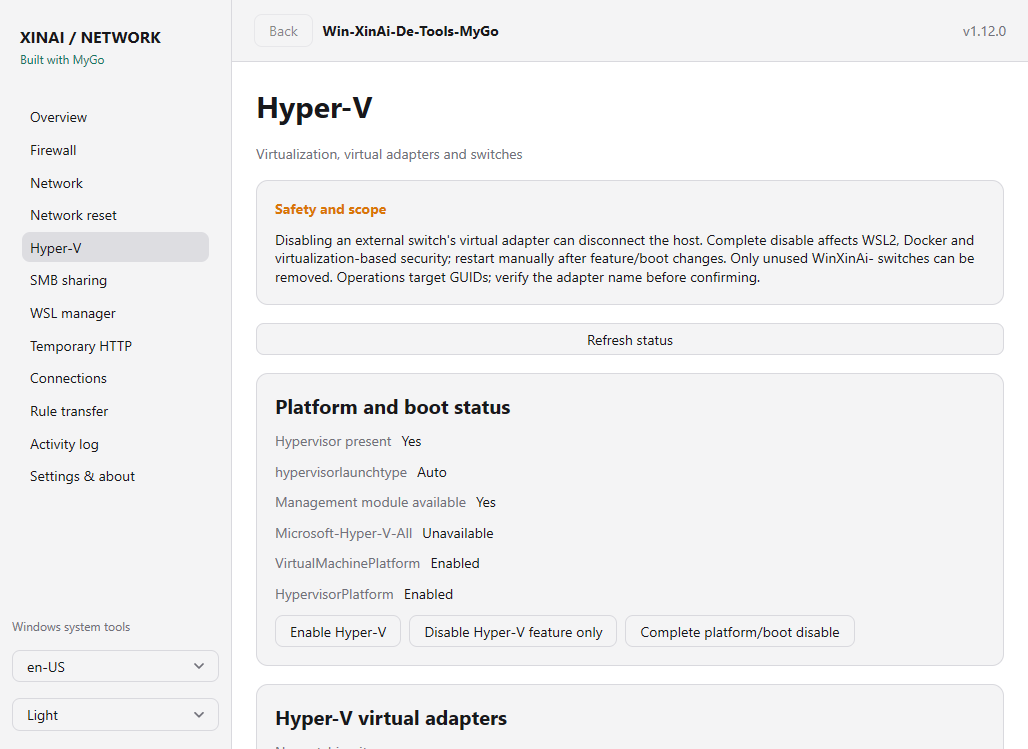
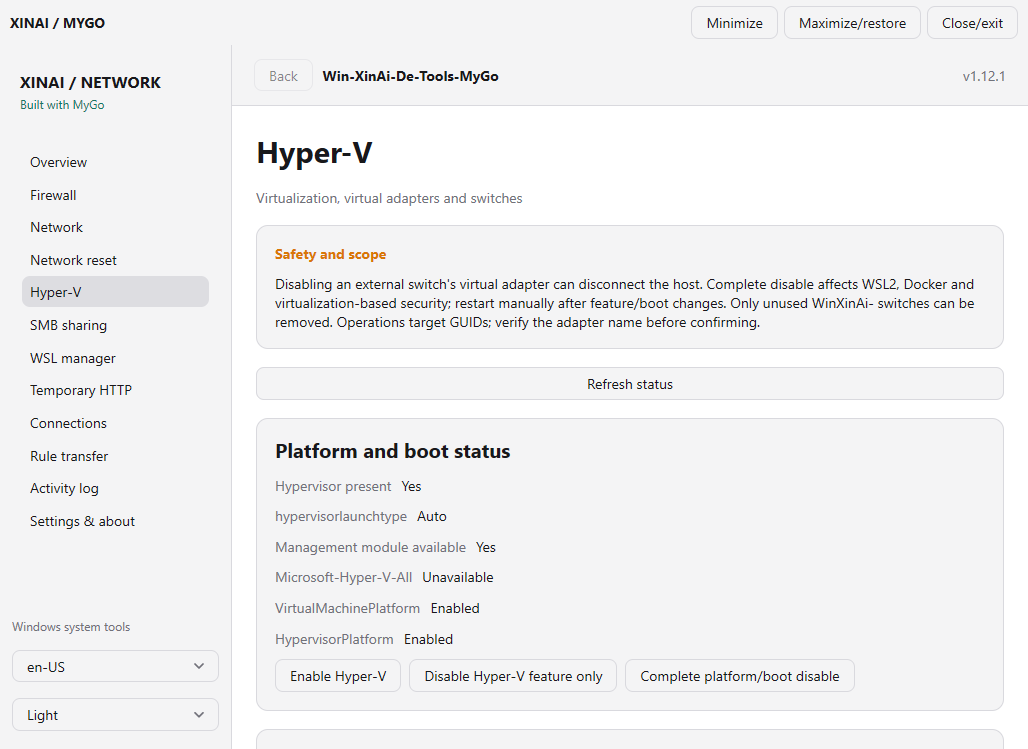
Record passed x64 and ARM64 validation and refresh native screenshots

diff --git a/README.md b/README.md
@@ -29,6 +29,12 @@ The installer offers **desktop** and **Start Menu** shortcuts as independent opt
 
 Install identities, shortcuts and UI preferences are independent. Inspired by [Pulse](https://pulse.egoist.dev/), MyGo uses native Go controls, not a WebView. It includes a self-contained .NET system engine: no tiny standalone-binary claim. Dedicated feature pages automatically load real state and show searchable rule/connection lists, populated adapter settings, Hyper-V/SMB/WSL controls and individual HTTP URL actions. Advanced WSL tools have grouped forms; application login startup is not offered. **Both editions manage the same Windows configuration; avoid conflicting simultaneous changes.** See the [MyGo guide and differences](docs/MYGO.md).
 
+## v1.12.1 Fixes
+
+- Fix optional post-install launch error 740 without removing administrator requirements or shortcut choices.
+- Fit MyGo's initial window inside the screen work area and add visible Minimize, Maximize/restore and Close/exit controls.
+- Preserve Chinese adapter names/aliases, SMB paths and WSL launcher diagnostics with explicit per-process encoding.
+
 ## Features
 
 - **Local network reset**: DNS cache, selected-adapter DHCP/automatic DNS, or system Winsock/TCP/IP. Snapshot first, Cancel by default, no automatic reboot; see [reset and recovery](docs/NETWORK-RESET.md).
@@ -43,11 +49,11 @@ System configuration changes require administrator privileges. Enable the legacy
 
 ## Interface
 
-Actual Windows x64 screenshots from the [v1.12.0 release UI verification](https://github.com/logdns/Win-XinAi-De-Tools/actions/runs/39005734844). System status and available controls depend on the host configuration. MyGo now shows dedicated feature pages, not an operation-selector/JSON console. The adapter settings screenshot is an unsubmitted Static draft populated from a DHCP adapter; no network configuration was changed.
+Actual Windows x64 screenshots from the [v1.12.1 candidate UI verification](https://github.com/logdns/Win-XinAi-De-Tools/actions/runs/39012141927). System status and available controls depend on the host configuration. MyGo now shows dedicated feature pages, not an operation-selector/JSON console. The adapter settings screenshot is an unsubmitted Static draft populated from a DHCP adapter; no network configuration was changed.
 
 ### Dashboard
 
-![v1.12.0 dashboard with Hyper-V navigation](docs/screenshots/dashboard.png)
+![v1.12.1 dashboard with Hyper-V navigation](docs/screenshots/dashboard.png)
 
 ### Hyper-V features and boot configuration
 
@@ -59,40 +65,46 @@ Actual Windows x64 screenshots from the [v1.12.0 release UI verification](https:
 
 ### Local HTTP discovery
 
-![v1.12.0 local HTTP service discovery](docs/screenshots/temporary-http-discovery.png)
+![v1.12.1 local HTTP service discovery](docs/screenshots/temporary-http-discovery.png)
 
 ### Local network reset (WinUI)
 
-![v1.12.0 DNS, adapter and Winsock/TCP/IP reset with dark safety notice](docs/screenshots/network-reset.png)
+![v1.12.1 DNS, adapter and Winsock/TCP/IP reset with dark safety notice](docs/screenshots/network-reset.png)
 
 ### Built with MyGo: native overview
 
-![v1.12.0 MyGo native dashboard](docs/screenshots/mygo-dashboard.png)
+![v1.12.1 MyGo native dashboard](docs/screenshots/mygo-dashboard.png)
+
+### Built with MyGo: compact window and visible controls
+
+The initial window fits the display work area. Minimize, Maximize/restore and Close/exit remain visible in the native toolbar; system title-bar controls stay enabled. This is an actual compact native content capture (464 × 601 pixels), not a full-desktop screenshot.
+
+![v1.12.1 MyGo compact layout with visible window controls](docs/screenshots/mygo-compact.png)
 
 ### Built with MyGo: rules and direct actions
 
-![v1.12.0 MyGo searchable rule list with edit and delete buttons](docs/screenshots/mygo-firewall.png)
+![v1.12.1 MyGo searchable rule list with edit and delete buttons](docs/screenshots/mygo-firewall.png)
 
 ### Built with MyGo: populated IP/DNS settings
 
-![v1.12.0 MyGo selected-adapter settings, unsubmitted Static draft](docs/screenshots/mygo-network-settings.png)
+![v1.12.1 MyGo selected-adapter settings, unsubmitted Static draft](docs/screenshots/mygo-network-settings.png)
 
 ### Built with MyGo: Hyper-V platform and networking
 
-![v1.12.0 MyGo Hyper-V feature and boot state with dedicated controls](docs/screenshots/mygo-hyperv.png)
+![v1.12.1 MyGo Hyper-V feature and boot state with dedicated controls](docs/screenshots/mygo-hyperv.png)
 
 <details>
 <summary>Virtual switch settings and connection monitor</summary>
 
-![v1.12.0 MyGo real switch inventory and unsubmitted creation form](docs/screenshots/mygo-hyperv-network.png)
+![v1.12.1 MyGo real switch inventory and unsubmitted creation form](docs/screenshots/mygo-hyperv-network.png)
 
-![v1.12.0 MyGo connection list with process-bound actions](docs/screenshots/mygo-connections.png)
+![v1.12.1 MyGo connection list with process-bound actions](docs/screenshots/mygo-connections.png)
 
 </details>
 
 ### Built with MyGo: network reset
 
-![v1.12.0 MyGo network reset and safety scope](docs/screenshots/mygo-reset.png)
+![v1.12.1 MyGo network reset and safety scope](docs/screenshots/mygo-reset.png)
 
 ## Documentation and development
 

diff --git a/README.zh-CN.md b/README.zh-CN.md
@@ -29,6 +29,12 @@
 
 两版独立安装、快捷方式与界面设置，可同时保留。MyGo 借鉴 [Pulse](https://pulse.egoist.dev/) 的分区与状态卡片，不使用 WebView；包含自包含 .NET 系统服务引擎，不是单文件小体积版本。各功能页进入自动加载真实状态，直接展示规则/连接列表、网卡设置、Hyper-V/SMB/WSL 控件和 HTTP 地址按钮；WSL 高级功能使用分组表单；不提供应用登录自启开关。**两版共用同一台电脑的系统配置，勿并发执行冲突操作。** 详见 [MyGo 版本、差异与构建](docs/MYGO.md)。
 
+## v1.12.1 修复
+
+- 修复安装完成立即启动时的错误 740，保留管理员权限要求和独立的快捷方式选项。
+- MyGo 首次窗口自适配屏幕工作区，增加始终可见的最小化、最大化/还原、关闭/退出入口。
+- 修复网卡名称、接口别名和 SMB 中文输出乱码，正确解码 WSL 启动诊断，不修改系统全局语言或代码页。
+
 ## 功能
 
 - **本地网络重置**：清理 DNS 缓存、所选网卡 DHCP/自动 DNS、整机 Winsock/TCP/IP；先备份、默认取消、不自动重启，见[重置与恢复](docs/NETWORK-RESET.md)。
@@ -43,11 +49,11 @@
 
 ## 界面
 
-以下为 [v1.12.0 正式发布构建界面验证](https://github.com/logdns/Win-XinAi-De-Tools/actions/runs/39005734844)生成的 Windows x64 实际软件截图。系统状态与可用操作取决于主机配置。MyGo 现为专用功能界面，不再是操作下拉框与 JSON 控制台。网卡设置截图是从实际 DHCP 网卡回填后、尚未提交的 Static 草稿，未修改主机网络。
+以下为 [v1.12.1 候选构建界面验证](https://github.com/logdns/Win-XinAi-De-Tools/actions/runs/39012141927)生成的 Windows x64 实际软件截图。系统状态与可用操作取决于主机配置。MyGo 现为专用功能界面，不再是操作下拉框与 JSON 控制台。网卡设置截图是从实际 DHCP 网卡回填后、尚未提交的 Static 草稿，未修改主机网络。
 
 ### 概览
 
-![v1.12.0 概览，包含 Hyper-V 管理入口](docs/screenshots/dashboard.png)
+![v1.12.1 概览，包含 Hyper-V 管理入口](docs/screenshots/dashboard.png)
 
 ### Hyper-V 功能与启动配置
 
@@ -59,40 +65,46 @@
 
 ### 本机 HTTP 服务检测
 
-![v1.12.0 本机 HTTP 服务检测](docs/screenshots/temporary-http-discovery.png)
+![v1.12.1 本机 HTTP 服务检测](docs/screenshots/temporary-http-discovery.png)
 
 ### 本地网络重置（原版 WinUI）
 
-![v1.12.0 DNS、网卡和 Winsock/TCP/IP 重置，深色风险提示](docs/screenshots/network-reset.png)
+![v1.12.1 DNS、网卡和 Winsock/TCP/IP 重置，深色风险提示](docs/screenshots/network-reset.png)
 
 ### Built with MyGo：原生概览
 
-![v1.12.0 MyGo 中文原生概览](docs/screenshots/mygo-dashboard.zh-CN.png)
+![v1.12.1 MyGo 中文原生概览](docs/screenshots/mygo-dashboard.zh-CN.png)
+
+### Built with MyGo：小屏适配与窗口控制
+
+首次窗口按屏幕工作区计算尺寸；顶部始终显示最小化、最大化/还原、关闭/退出，系统标题栏控件仍保留。下图为实际原生内容截图（464 × 601 像素），不是整张桌面截图。
+
+![v1.12.1 MyGo 小屏布局和始终可见的窗口按钮](docs/screenshots/mygo-compact.zh-CN.png)
 
 ### Built with MyGo：规则列表与直接操作
 
-![v1.12.0 MyGo 规则搜索、筛选、编辑与删除按钮](docs/screenshots/mygo-firewall.zh-CN.png)
+![v1.12.1 MyGo 规则搜索、筛选、编辑与删除按钮](docs/screenshots/mygo-firewall.zh-CN.png)
 
 ### Built with MyGo：回填 IP/DNS 设置
 
-![v1.12.0 MyGo 网卡设置，尚未提交的 Static 草稿](docs/screenshots/mygo-network-settings.zh-CN.png)
+![v1.12.1 MyGo 网卡设置，尚未提交的 Static 草稿](docs/screenshots/mygo-network-settings.zh-CN.png)
 
 ### Built with MyGo：Hyper-V 平台与网络
 
-![v1.12.0 MyGo Hyper-V 实际功能与启动状态及专用按钮](docs/screenshots/mygo-hyperv.zh-CN.png)
+![v1.12.1 MyGo Hyper-V 实际功能与启动状态及专用按钮](docs/screenshots/mygo-hyperv.zh-CN.png)
 
 <details>
 <summary>展开虚拟交换机设置与连接监控</summary>
 
-![v1.12.0 MyGo 实际交换机列表与未提交的创建表单](docs/screenshots/mygo-hyperv-network.zh-CN.png)
+![v1.12.1 MyGo 实际交换机列表与未提交的创建表单](docs/screenshots/mygo-hyperv-network.zh-CN.png)
 
-![v1.12.0 MyGo 连接列表与绑定进程的行内按钮](docs/screenshots/mygo-connections.zh-CN.png)
+![v1.12.1 MyGo 连接列表与绑定进程的行内按钮](docs/screenshots/mygo-connections.zh-CN.png)
 
 </details>
 
 ### Built with MyGo：网络重置
 
-![v1.12.0 MyGo 中文网络重置与风险提示](docs/screenshots/mygo-reset.zh-CN.png)
+![v1.12.1 MyGo 中文网络重置与风险提示](docs/screenshots/mygo-reset.zh-CN.png)
 
 ## 文档与开发
 

diff --git a/docs/AUDIT.md b/docs/AUDIT.md
@@ -1,6 +1,6 @@
 # Current audit and validation / 当前审计与验证
 
-当前修复候选版本：**1.12.1**（正式发布验证待补）；上一发布为 **1.12.0**。本页区分新增功能的源码审查、候选验证与发布下载校验。
+当前修复候选版本：**1.12.1**（Windows 候选验证通过，正式标签发布待核验）；上一发布为 **1.12.0**。本页区分新增功能的源码审查、候选验证与发布下载校验。
 This page summarizes the current implementation and completed validation.
 
 ## 1.12.1 focused fixes / 安装、窗口与编码复核
@@ -13,7 +13,14 @@ Source review scope: both installer `[Run]` entries; MyGo work-area sizing, visi
 - WSL: keep Linux UTF-8 distinct from native launcher UTF-16; preserve nonzero exits and show available stdout diagnostics instead of a generic disk-usage failure. Empty/non-installed distributions are not reported as healthy.
 - Validation added: exact Chinese JSON/path/stderr subprocess round-trip, WSL encoding fixtures, compact control bounds, work-area fit, actual minimize/maximize/restore and busy-close veto, real non-silent installer Finish launch, and a native Windows ARM64 MyGo release gate.
 
-Candidate Windows results, refreshed real screenshots and final package checksum verification will be recorded after execution. A hosted runner does not establish physical ARM64 hardware, mixed-monitor DPI, secure-desktop UAC, accessibility or destructive-feature acceptance.
+[Successful complete Windows candidate](https://github.com/logdns/Win-XinAi-De-Tools/actions/runs/39012141927), implementation `71dec6c`, 2026-10-17:
+
+- 154 Windows .NET 8 tests and 2 opted-in firewall integration tests pass on x64; all 154 shared-service tests, including real Chinese PowerShell JSON/stderr round-trip, also pass on native Windows ARM64. 36 Go test functions, 13 installer contracts, 420-resource localization/version audit, NuGet/Go dependency audits and all ten packages pass. Local Go `-race` and `go vet` also pass.
+- Both editions pass actual x64 installation, every shortcut choice, Start Menu startup, reinstallation and uninstall. The real non-silent English wizard records Next → Install → Finish; its log records `Run as: Current user`, and the installed administrator application starts and shuts down normally. Native Windows ARM64 MyGo repeats this full lifecycle, not only cross-compilation. Independent cross-edition installation/uninstall also passes.
+- Both native MyGo x64 and ARM64 runs verify initial bounds `{X:24 Y:24 Width:976 Height:672}` within the actual `{X:0 Y:0 Width:1024 Height:720}` DIP work area, actual minimize/maximize/restore, busy-close veto, 12 read-only engine probes and selected-adapter read-back. Each captures 144 page/language/theme/size combinations plus 20 scrolled settings views. WinUI's 180-combination native check also passes. README screenshots are refreshed from this candidate; the compact screenshot demonstrates visible controls, not a full desktop or physical DPI certification.
+- A focused reusable installer workflow also passes [WinUI x86-on-x64 and MyGo native ARM64](https://github.com/logdns/Win-XinAi-De-Tools/actions/runs/39012004300) against candidate packages. Earlier candidate failures were in new automation (missing C# import, versioned wizard caption and modern `Next` label); those runs are not presented as passed or released.
+
+Final tag publication and downloaded-package verification remain pending. A hosted runner does not establish physical ARM64 hardware, mixed-monitor DPI, secure-desktop UAC, accessibility or destructive-feature acceptance.
 
 ## Verified release 1.12.0 / 专用功能界面双版本发布
 
